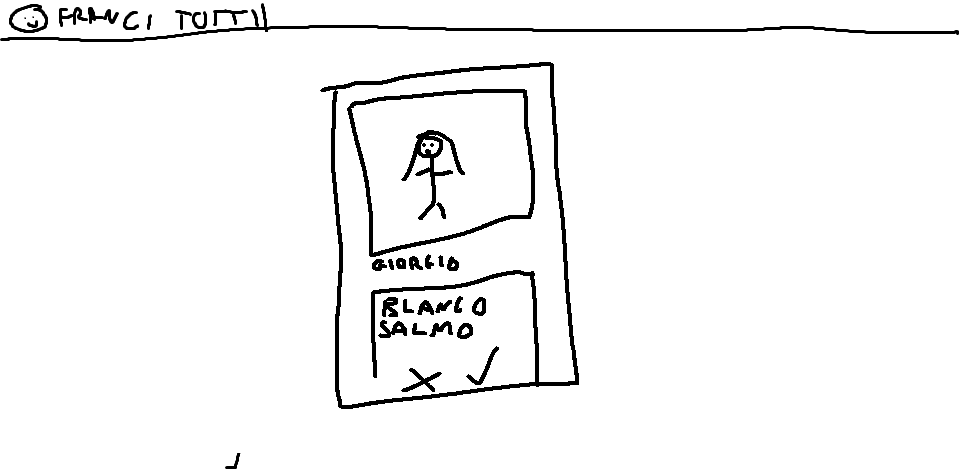
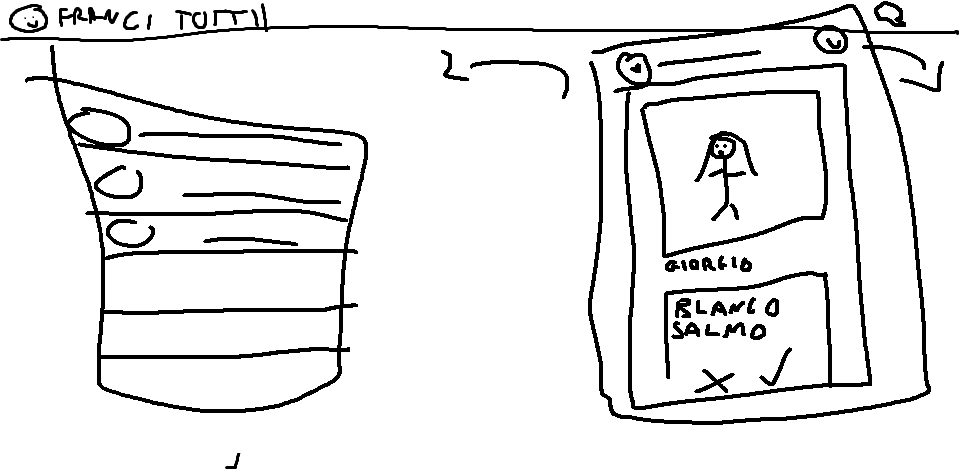
error handler and started register forms

diff --git a/src/Home.js b/src/Home.js
@@ -1,28 +1,30 @@
 import React, { useEffect, useState } from "react";
 import { SpotifyAuth } from "react-spotify-auth";
 import Cookies from "js-cookie";
+import {creation} from "./CreationHandler";
 
 import Button from "@mui/material/Button";
 
 function Home() {
 
   useEffect(() => {
-    let creation = Cookies.get("creationDate");
-    let token = Cookies.get("spotifyAuthToken");
+    // let creation = Cookies.get("creationDate");
+    // let token = Cookies.get("spotifyAuthToken");
 
-    creation = parseInt(creation);
+    // creation = parseInt(creation);
     
 
-    if(creation != null){
+    // if(creation != null){
 
-      if(Date.now() - creation > 3600000) {
-        alert("token più vecchio di un'ora");
-        Cookies.remove("creationDate"     ,{path:'/'});
-        Cookies.remove("spotifyAuthToken", {path:'/'});
-        window.location = "/login";
-      }
+    //   if(Date.now() - creation > 3600000) {
+    //     alert("token più vecchio di un'ora");
+    //     Cookies.remove("creationDate"     ,{path:'/'});
+    //     Cookies.remove("spotifyAuthToken", {path:'/'});
+    //     window.location = "/login";
+    //   }
       
-    }
+    // }
+    creation();
     
   },[]);
 

diff --git a/src/CreationHandler.js b/src/CreationHandler.js
@@ -1,0 +1,29 @@
+import Cookies from "js-cookie";
+import React, { useEffect, useState } from "react";
+export function creation() {
+
+    let creation = Cookies.get("creationDate");
+    let token = Cookies.get("spotifyAuthToken");
+
+    creation = parseInt(creation);
+
+    // se c'è un token, controlla che non sia più vecchio di un'ora,
+    // in caso rimanda a fare il login
+    if (creation > 1) {
+
+        if (Date.now() - creation > 6000) {
+            alert("token più vecchio di un'ora");
+            Cookies.remove("creationDate", { path: '/' });
+            Cookies.remove("spotifyAuthToken", { path: '/' });
+            window.location = "/login";
+        } else {
+            console.log(creation);
+        }
+
+    } else {
+        // l'utente non è loggato
+        window.location = "/login";
+    }
+
+
+}

diff --git a/src/App.js b/src/App.js
@@ -1,9 +1,14 @@
 import React from "react";
+
 import "./Login.css";
 import "./Parameters.css";
+import "./register.css";
+import "./Home.css";
+
 import Home from "./Home";
 import Test from "./Test";
 import Login from "./Login";
+import Register from "./Register";
 
 import {
   BrowserRouter as Router,
@@ -20,6 +25,7 @@ function App() {
           <Route path="/home" element={<Home />} />
           <Route path="/test" element={<Test />} />
           <Route path="/login" element={<Login />} />
+          <Route path="/register" element={<Register />} />
           <Route exact path="/" element={<Navigate to="/login" replace />} />
         </Routes>
       </Router>

diff --git a/src/Register.js b/src/Register.js
@@ -1,0 +1,20 @@
+import React, { useEffect, useState } from "react";
+import { SpotifyHandler } from "./api/SpotifyHandler";
+import {creation} from "./CreationHandler";
+
+import Button from "@mui/material/Button";
+import "react-spotify-auth/dist/index.css";
+
+function Register() {
+  
+    useEffect(() => {
+        creation();
+      },[]);
+
+  return (
+    
+    <div></div>
+  );
+}
+
+export default Register;

diff --git a/src/Login.js b/src/Login.js
@@ -2,6 +2,8 @@ import React, { useEffect, useState } from "react";
 import { SpotifyAuth } from "react-spotify-auth";
 import Cookies from "js-cookie";
 import { SpotifyHandler } from "./api/SpotifyHandler";
+import { CreationHandler } from "./CreationHandler";
+
 
 import Button from "@mui/material/Button";
 import "react-spotify-auth/dist/index.css";
